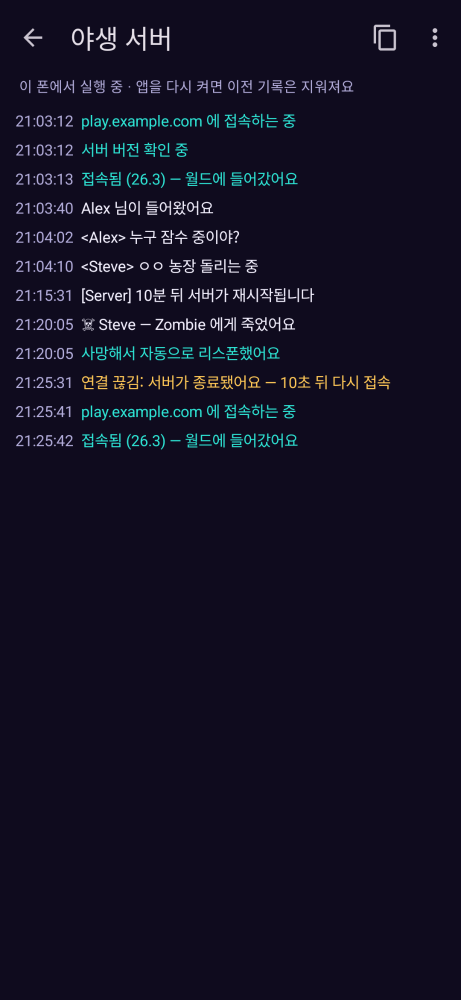
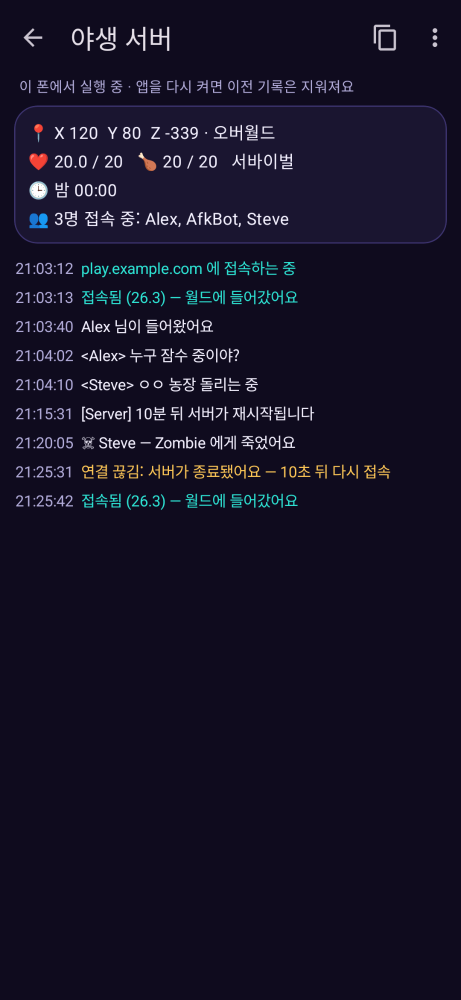
README: AFK status panel
Claude-Session: https://claude.ai/code/session_01DmfJ6EuJtwupoHBxXGmgkt

Changed region(s): [[0.0304, 0.093, 0.8503, 0.527], [0.9414, 0.124, 0.9718, 0.248]]

diff --git a/README.md b/README.md
@@ -141,8 +141,9 @@ GitHub Actions 가 푸시마다 테스트, lint, APK 빌드를 수행합니다.
 - 끊기거나 추방되면 **10초 → 20초 → 40초 → 최대 60초** 간격으로 다시 접속합니다. 네트워크가 끊기면 기다렸다가 돌아오면 바로 접속합니다.
 - 폰을 재부팅하면 켜져 있던 서버에 다시 접속합니다 (설정에서 끌 수 있음).
 
-**로그 보기**
-- 서버를 누르면 그 서버의 **로그**가 열립니다: 접속·끊김(사유와 재접속 시간)·사망/리스폰 같은 기록과, 봇이 보는 **서버 채팅**(플레이어 채팅, 공지, 입장/퇴장, 사망 메시지).
+**로그와 상태 보기**
+- 서버를 누르면 맨 위에 **상태 정보**가 보입니다: 좌표, 차원(오버월드/네더/엔드), 체력·배고픔, 게임 모드, 서버 시간(낮/밤), 접속 중인 플레이어 목록.
+- 그 아래에 그 서버의 **로그**가 이어집니다: 접속·끊김(사유와 재접속 시간)·사망/리스폰 같은 기록과, 봇이 보는 **서버 채팅**(플레이어 채팅, 공지, 입장/퇴장, 사망 메시지).
 - 메뉴에서 **채팅만 보기**, 복사, 공유를 할 수 있습니다. PC에서 도는 서버의 로그도 똑같이 보입니다.
 - 로그는 최근 500줄까지 메모리에 보관됩니다 (앱이나 PC 프로그램을 다시 켜면 지워짐). 수정·삭제는 서버 오른쪽 ⋮ 메뉴에 있습니다.
 
